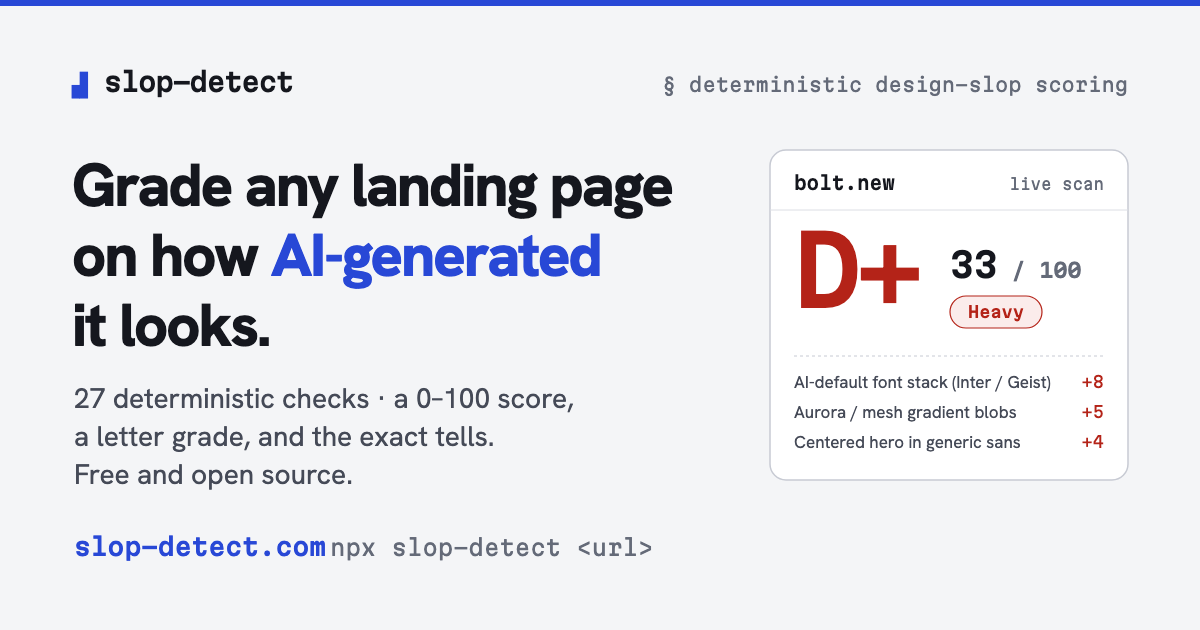
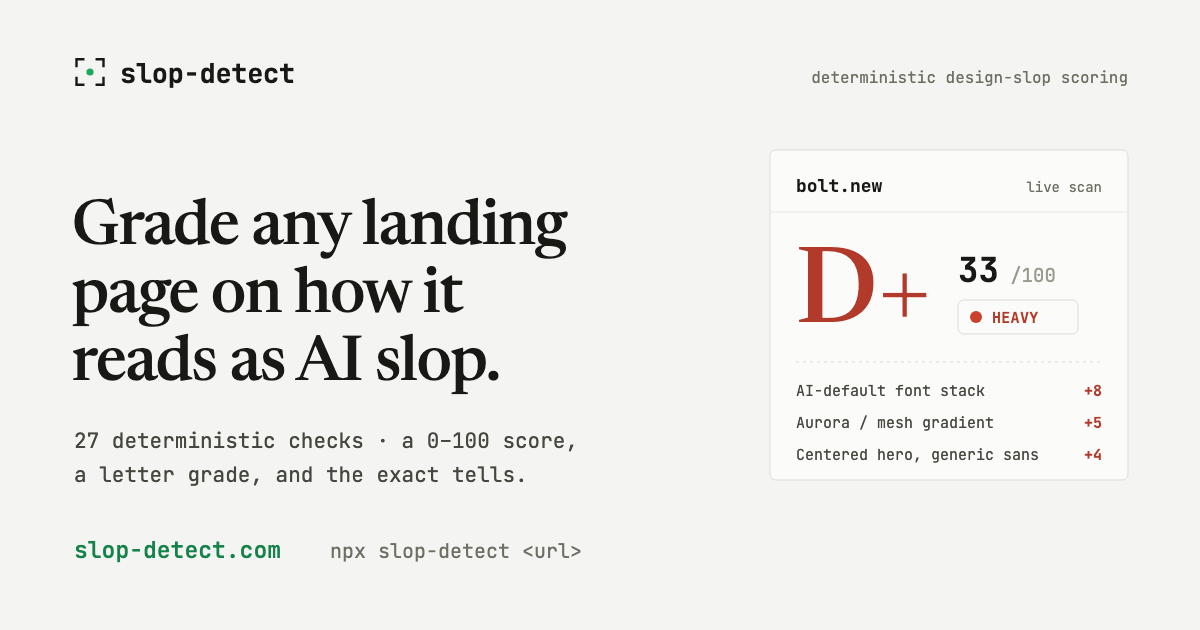
feat(web): re-theme OG share card + static OG assets to the light system
Rewrite cardHtml (the 1200x630 dynamic share card) onto the editorial-instrument
theme: flat cool-paper surface instead of the radial-gradient register, a Newsreader
score numeral and grade in the tier text hue, JetBrains Mono labels, the verdict set
in italic Newsreader, the scan-reticle lockup, and the 1.5px ink ledger rule. Tier
colors come from the centralized _theme resolver and the font link from _brand, so the
card reads as the same product as every other surface and passes its own detector.

Preserve the dynamic OG behavior (MNR-8): cached PNG from KV, else screenshot + cache
30d, else static /og.png fallback; add a document.fonts.ready wait so the screenshot
captures the loaded web fonts. Regenerate the static og.png (brand statement + verdict
scale) and landing/og.svg + landing/og.png (re-themed grade-card signature) to match.

Add og-card.test.js: renders cardHtml and asserts the new tokens, the per-tier text
color, the italic verdict, and that no radial-/linear-gradient remains on the surface.

diff --git a/apps/web/functions/_card.tsx b/apps/web/functions/_card.tsx
@@ -1,86 +1,139 @@
 /** @jsxRuntime automatic @jsxImportSource hono/jsx */
 // Share-card HTML (1200×630) — rasterized to PNG by /og/:id.png.
 //
-// Relocated here from _render.tsx by foundation task 00. The visual treatment is
-// untouched — re-theming the OG card to the new light palette is task 13's job.
-// Tier colors come from the centralized resolver in _theme.ts; escaping stays in
-// _render.tsx.
+// Re-themed for build task 13 to the light editorial-instrument system: flat
+// cool-paper surface (no radial/linear gradient — the detector flags gradient
+// surfaces), a Newsreader score numeral and grade in the tier's text hue, JetBrains
+// Mono labels, and the verdict set in italic Newsreader. Tier colors come from the
+// centralized resolver in _theme.ts and the font <link> from _brand.ts, so the card
+// reads as the same product as every other surface and dogfoods its own detector.
 
 import { raw } from 'hono/html';
 import { escapeHtml } from './_render.js';
 import { tierColors } from './_theme.js';
+import { BRAND_FONTS_HEAD } from './_brand.js';
+
+// The scan-reticle mark (light variant: ink brackets, Clean-green dot). Inlined so
+// the rasterized card needs no extra asset fetch. Source: landing/design/mark.svg.
+const RETICLE = `<svg width="34" height="34" viewBox="0 0 24 24" fill="none" aria-hidden="true">
+  <path d="M3 8 V3.5 H7.5" stroke="#181815" stroke-width="1.6" stroke-linecap="square"/>
+  <path d="M16.5 3.5 H21 V8" stroke="#181815" stroke-width="1.6" stroke-linecap="square"/>
+  <path d="M21 16 V20.5 H16.5" stroke="#181815" stroke-width="1.6" stroke-linecap="square"/>
+  <path d="M7.5 20.5 H3 V16" stroke="#181815" stroke-width="1.6" stroke-linecap="square"/>
+  <circle cx="12" cy="12" r="2.4" fill="#1FA85E"/>
+</svg>`;
 
 export function cardHtml(slim) {
   const c = tierColors(slim.tier);
+  const tier = String(slim.tier || '');
   const tells = (slim.triggered || [])
     .slice(0, 4)
     .map((t) => t.short || t.label)
-    .join(' · ');
+    .join('  ·  ');
 
   const CARD_CSS = `
   *{margin:0;padding:0;box-sizing:border-box}
   html,body{width:1200px;height:630px;overflow:hidden}
   body{
-    background:radial-gradient(1200px 630px at 78% 22%, ${c.bg} 0%, #0a0a0b 60%);
-    color:#f5f5f7;
-    font-family:-apple-system,BlinkMacSystemFont,"Segoe UI","Helvetica Neue",Arial,sans-serif;
-    padding:64px 72px;display:flex;flex-direction:column;justify-content:space-between;
+    background:#F4F5F2;
+    color:#181815;
+    font-family:'Libre Franklin',-apple-system,BlinkMacSystemFont,'Segoe UI',sans-serif;
+    -webkit-font-smoothing:antialiased;text-rendering:optimizeLegibility;
+    padding:60px 72px;display:flex;flex-direction:column;justify-content:space-between;
   }
-  .top{display:flex;justify-content:space-between;align-items:flex-start}
-  .brand{font-size:26px;font-weight:700;letter-spacing:-0.02em}
-  .brand .slash{color:#5a5a62;font-weight:400}
-  .defs{font-size:15px;color:#5a5a62;font-family:ui-monospace,Menlo,monospace}
-  .mid{display:flex;align-items:center;gap:48px;margin-top:8px}
-  .grade{font-size:240px;font-weight:800;line-height:.82;letter-spacing:-0.05em;color:${c.fg}}
-  .meta{display:flex;flex-direction:column;gap:14px}
-  .score{font-size:64px;font-weight:700;letter-spacing:-0.03em}
-  .score small{font-size:30px;color:#8a8a92;font-weight:500}
-  .tier{align-self:flex-start;font-size:24px;font-weight:700;padding:6px 20px;border-radius:999px;
-        border:2px solid ${c.fg};color:${c.fg}}
-  .flagged{font-size:20px;color:#8a8a92}
-  .bottom{display:flex;flex-direction:column;gap:10px}
-  .domain{font-size:30px;font-weight:600}
-  .verdict{font-size:26px;color:#d4d4d8;max-width:1000px;line-height:1.3}
-  .tells{font-size:17px;color:#6b6b73;font-family:ui-monospace,Menlo,monospace}
-  .foot{font-size:18px;color:#5a5a62;margin-top:6px}
+  .serif{font-family:'Newsreader',Georgia,'Times New Roman',serif}
+  .mono{font-family:'JetBrains Mono',ui-monospace,'SF Mono',Menlo,Consolas,monospace}
+
+  /* masthead: the logo lockup + a mono defs stamp */
+  .top{display:flex;justify-content:space-between;align-items:center}
+  .brand{display:flex;align-items:center;gap:14px}
+  .brand svg{display:block}
+  .word{font-family:'JetBrains Mono',ui-monospace,Menlo,monospace;font-size:27px;font-weight:700;
+        letter-spacing:-0.01em;color:#181815;white-space:nowrap}
+  .tail{font-family:'JetBrains Mono',ui-monospace,Menlo,monospace;font-size:15px;color:#6E6F63}
+  .defs{font-family:'JetBrains Mono',ui-monospace,Menlo,monospace;font-size:15px;color:#6E6F63}
+
+  /* the reading */
+  .mid{display:flex;flex-direction:column;gap:22px}
+  .subject{display:flex;align-items:center;gap:14px}
+  .dot{width:14px;height:14px;border-radius:50%;background:${c.fill}}
+  .domain{font-family:'JetBrains Mono',ui-monospace,Menlo,monospace;font-size:30px;font-weight:500;
+          letter-spacing:-0.01em;color:#181815}
+  .reading{display:flex;align-items:flex-end;gap:56px}
+  .scoreblock{display:flex;align-items:flex-end;gap:16px}
+  .score{font-family:'Newsreader',Georgia,serif;font-weight:500;font-size:188px;line-height:0.78;
+         letter-spacing:-0.03em;color:${c.fg}}
+  .unit{font-family:'JetBrains Mono',ui-monospace,Menlo,monospace;font-size:44px;font-weight:400;
+        color:#9A9B8E;margin-bottom:24px}
+  .meta{display:flex;flex-direction:column;gap:16px;padding-bottom:18px}
+  .grade{font-family:'Newsreader',Georgia,serif;font-weight:500;font-size:96px;line-height:0.78;
+         letter-spacing:-0.03em;color:${c.fg}}
+  .pill{align-self:flex-start;display:flex;align-items:center;gap:10px;
+        border:1px solid #DBDDD6;border-radius:6px;background:#FBFBF9;padding:8px 16px}
+  .pill .tierlabel{font-family:'JetBrains Mono',ui-monospace,Menlo,monospace;font-size:18px;
+                   font-weight:700;letter-spacing:0.02em;color:${c.fg}}
+  .flagged{font-family:'JetBrains Mono',ui-monospace,Menlo,monospace;font-size:17px;color:#6E6F63}
+
+  /* verdict — Newsreader italic voice */
+  .verdict{font-family:'Newsreader',Georgia,serif;font-style:italic;font-weight:400;font-size:31px;
+           line-height:1.3;color:#3A3B33;max-width:1010px}
+
+  /* footer — the signature 1.5px ink ledger rule above a mono line */
+  .foot{border-top:1.5px solid #181815;padding-top:14px;display:flex;justify-content:space-between;
+        align-items:baseline}
+  .foot .mono{font-size:18px;color:#46473F;letter-spacing:0}
+  .foot .tells{font-size:15px;color:#7E7F72;max-width:760px;text-align:right;
+               white-space:nowrap;overflow:hidden;text-overflow:ellipsis}
 `;
 
   const brandTail = slim.patternsTotal
-    ? escapeHtml(String(slim.patternsTotal)) + '&#8209;rule'
-    : '';
+    ? escapeHtml(String(slim.patternsTotal)) + '&#8209;rule AI&#8209;design fingerprint'
+    : 'AI&#8209;design fingerprint';
 
   const doc = (
     <html>
       <head>
         <meta charset="utf-8" />
+        {raw(BRAND_FONTS_HEAD)}
         <style>{raw(CARD_CSS)}</style>
       </head>
       <body>
         <div class="top">
           <div class="brand">
-            {raw('slop&#8209;detect')}{' '}
-            <span class="slash">{raw(`/ ${brandTail} AI&#8209;design fingerprint`)}</span>
+            {raw(RETICLE)}
+            <span class="word">slop-detect</span>
+            <span class="tail">{raw('/ ' + brandTail)}</span>
           </div>
-          <div class="defs">defs {slim.definitionsVersion || ''}</div>
+          <div class="defs">{slim.definitionsVersion ? `defs ${slim.definitionsVersion}` : ''}</div>
         </div>
+
         <div class="mid">
-          <div class="grade">{slim.grade}</div>
-          <div class="meta">
-            <div class="score">
-              {slim.score}
-              <small>/100</small>
+          <div class="subject">
+            <span class="dot"></span>
+            <span class="domain">{slim.domain}</span>
+          </div>
+          <div class="reading">
+            <div class="scoreblock">
+              <span class="score">{slim.score}</span>
+              <span class="unit">/100</span>
             </div>
-            <div class="tier">{slim.tier}</div>
-            <div class="flagged">
-              {slim.patternsFlagged}/{slim.patternsTotal} patterns triggered
+            <div class="meta">
+              <span class="grade">{slim.grade}</span>
+              <span class="pill">
+                <span class="dot"></span>
+                <span class="tierlabel">{tier.toUpperCase()}</span>
+              </span>
+              <span class="flagged">
+                {slim.patternsFlagged}/{slim.patternsTotal} patterns flagged
+              </span>
             </div>
           </div>
+          {slim.verdict ? <div class="verdict">{slim.verdict}</div> : null}
         </div>
-        <div class="bottom">
-          <div class="domain">{slim.domain}</div>
-          <div class="verdict">{slim.verdict || ''}</div>
-          {tells ? <div class="tells">{tells}</div> : null}
-          <div class="foot">slop-detect.com</div>
+
+        <div class="foot">
+          <span class="mono">slop-detect.com</span>
+          {tells ? <span class="mono tells">{tells}</span> : null}
         </div>
       </body>
     </html>

diff --git a/apps/web/test/og-card.test.js b/apps/web/test/og-card.test.js
@@ -1,0 +1,113 @@
+// Build task 13: the dynamic OG share card (cardHtml) is re-themed to the new
+// light editorial-instrument system and dogfoods its own detector. These tests
+// render cardHtml() to a string and pin the new tokens, the tier text color, the
+// italic-Newsreader verdict, and — closing the floor's open decision on the share
+// surface — assert the radial/linear gradient background is gone for good.
+
+import { test, expect } from 'vitest';
+import { cardHtml } from '../functions/_card.tsx';
+import { tierText, tierFill } from '../functions/_theme.ts';
+
+const slim = (over = {}) => ({
+  id: 'abc123',
+  domain: 'bolt.new',
+  score: 33,
+  tier: 'Heavy',
+  grade: 'D+',
+  verdict: 'Reads like a generated template: default fonts, gradient blobs, centered hero.',
+  patternsFlagged: 12,
+  patternsTotal: 27,
+  definitionsVersion: '2026.09',
+  triggered: [
+    { short: 'AI-default font stack', label: 'AI-default font stack (Inter / Geist)' },
+    { short: 'Aurora / mesh gradient', label: 'Aurora / mesh gradient blobs' },
+    { short: 'Centered hero', label: 'Centered hero in generic sans' },
+    { short: 'Glassmorphism', label: 'Glassmorphism cards' },
+  ],
+  ...over,
+});
+
+// ── the card is the new system, not the old dark gradient card ───────────────
+test('the card uses the new editorial faces (Newsreader serif + JetBrains Mono)', () => {
+  const html = cardHtml(slim());
+  expect(html, 'serif display face').toMatch(/Newsreader/);
+  expect(html, 'mono data face').toMatch(/JetBrains Mono/);
+  // and it requests them from Google Fonts via the shared brand <link>
+  expect(html).toMatch(/fonts\.googleapis\.com/);
+});
+
+test('NO gradient on the share surface (radial or linear) — flat paper only', () => {
+  const html = cardHtml(slim());
+  expect(html, 'radial-gradient is gone').not.toMatch(/radial-gradient/i);
+  expect(html, 'linear-gradient is gone').not.toMatch(/linear-gradient/i);
+  // the body is the cool-paper surface, not the old near-black register
+  expect(html).toMatch(/background:#F4F5F2/);
+  expect(html).not.toMatch(/#0a0a0b/i);
+});
+
+// ── color encodes the score: the numeral + grade carry the tier text hue ─────
+test('the score numeral and grade render in the tier text color', () => {
+  const html = cardHtml(slim({ tier: 'Heavy' }));
+  const fg = tierText('Heavy'); // #B23A2A
+  expect(html).toContain(`color:${fg}`);
+  // the core hue is used for the verdict dots (fill), not the type
+  expect(html).toContain(`background:${tierFill('Heavy')}`);
+});
+
+test('each tier maps the numeral to its own AA text hue', () => {
+  for (const [tier, hex] of [
+    ['Clean', '#15824A'],
+    ['Mild', '#9A6B12'],
+    ['Heavy', '#B23A2A'],
+  ]) {
+    const html = cardHtml(slim({ tier }));
+    expect(html, `${tier} numeral hue`).toContain(`color:${hex}`);
+    expect(html, `${tier} pill label`).toMatch(new RegExp(tier.toUpperCase()));
+  }
+});
+
+// ── the verdict is Newsreader italic voice ───────────────────────────────────
+test('the verdict line is set in italic Newsreader', () => {
+  const html = cardHtml(slim());
+  expect(html).toMatch(/\.verdict\{[^}]*font-family:'Newsreader'[^}]*font-style:italic/);
+  expect(html).toMatch(/Reads like a generated template/);
+});
+
+// ── the dynamic reading still lands on the card ──────────────────────────────
+test('the card shows the live reading: domain, score, grade, tier, flagged count', () => {
+  const html = cardHtml(slim());
+  expect(html).toMatch(/bolt\.new/);
+  expect(html).toMatch(/>33</); // score numeral
+  expect(html).toMatch(/>D\+</); // grade
+  expect(html).toMatch(/HEAVY/); // tier pill
+  expect(html).toMatch(/12\/27 patterns flagged/);
+  expect(html).toMatch(/defs 2026\.09/);
+  expect(html).toMatch(/slop-detect\.com/);
+  // the top tells, joined for the footer
+  expect(html).toMatch(/AI-default font stack/);
+});
+
+test('it stays a 1200×630 document with a doctype', () => {
+  const html = cardHtml(slim());
+  expect(html.startsWith('<!doctype html>')).toBe(true);
+  expect(html).toMatch(/width:1200px;height:630px/);
+});
+
+// ── dogfood: the card itself must pass the detector ──────────────────────────
+test('no slop tells in the card markup (no AI fonts, no purple CTA, flat borders)', () => {
+  const html = cardHtml(slim());
+  expect(html, 'no AI-default faces').not.toMatch(/Inter|Geist|Space\s*Grotesk/i);
+  expect(html, 'no gradient text').not.toMatch(/background-clip:\s*text/i);
+  expect(html, 'no purple anywhere').not.toMatch(/7A4D9A/i);
+  // flat, 1px-bordered chip — not a heavy/elevated card
+  expect(html).toMatch(/border:1px solid #DBDDD6/);
+  // the signature ledger rule carries the footer hierarchy
+  expect(html).toMatch(/border-top:1\.5px solid #181815/);
+});
+
+// ── graceful when optional fields are missing (KV slim may omit them) ────────
+test('renders without a verdict or tells without throwing', () => {
+  const html = cardHtml(slim({ verdict: null, triggered: [], definitionsVersion: null }));
+  expect(html).toMatch(/bolt\.new/);
+  expect(html).not.toMatch(/class="verdict"/);
+});

diff --git a/apps/web/functions/og/[id].ts b/apps/web/functions/og/[id].ts
@@ -41,6 +41,11 @@ export async function onRequestGet({ params, env, request }) {
     const page = await browser.newPage();
     await page.setViewport({ width: 1200, height: 630, deviceScaleFactor: 1 });
     await page.setContent(cardHtml(slim), { waitUntil: 'networkidle0', timeout: 15000 });
+    // The card now uses web fonts (Newsreader + JetBrains Mono); wait for them to
+    // finish loading so the shot doesn't capture a fallback-font flash.
+    try {
+      await page.evaluate(() => document.fonts && document.fonts.ready);
+    } catch (_) {}
     const buf = await page.screenshot({
       type: 'png',
       clip: { x: 0, y: 0, width: 1200, height: 630 },
